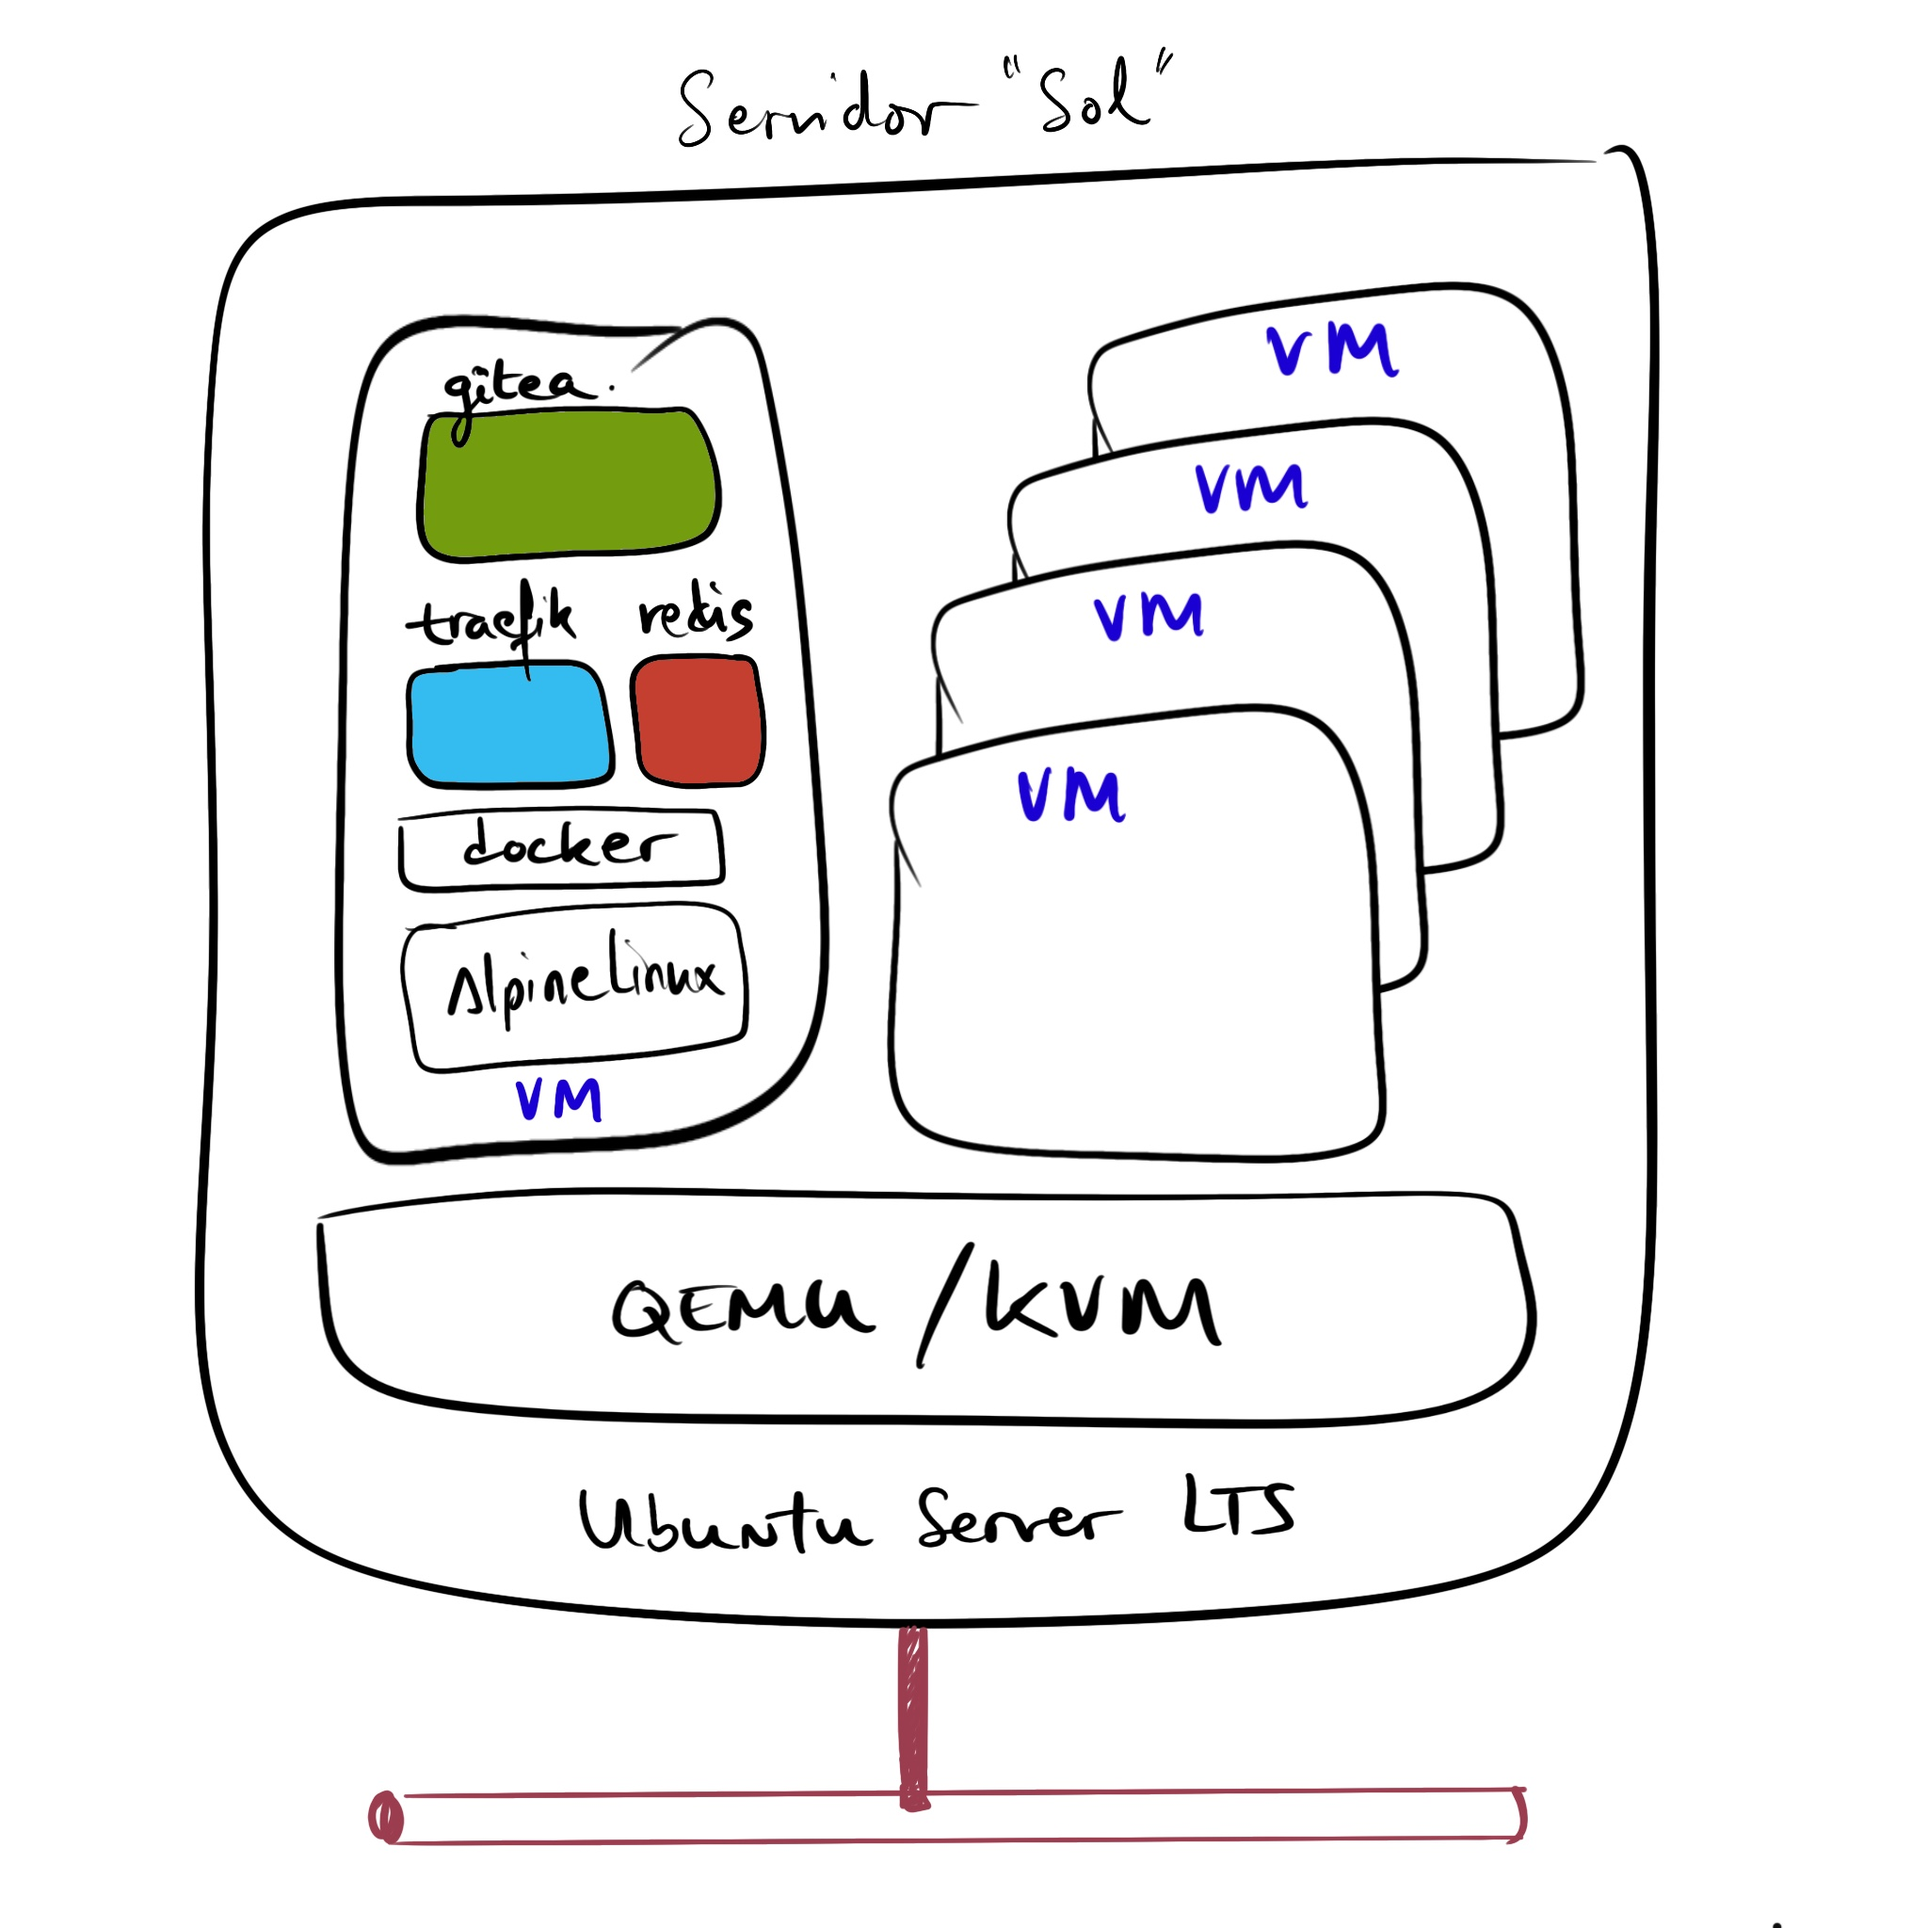
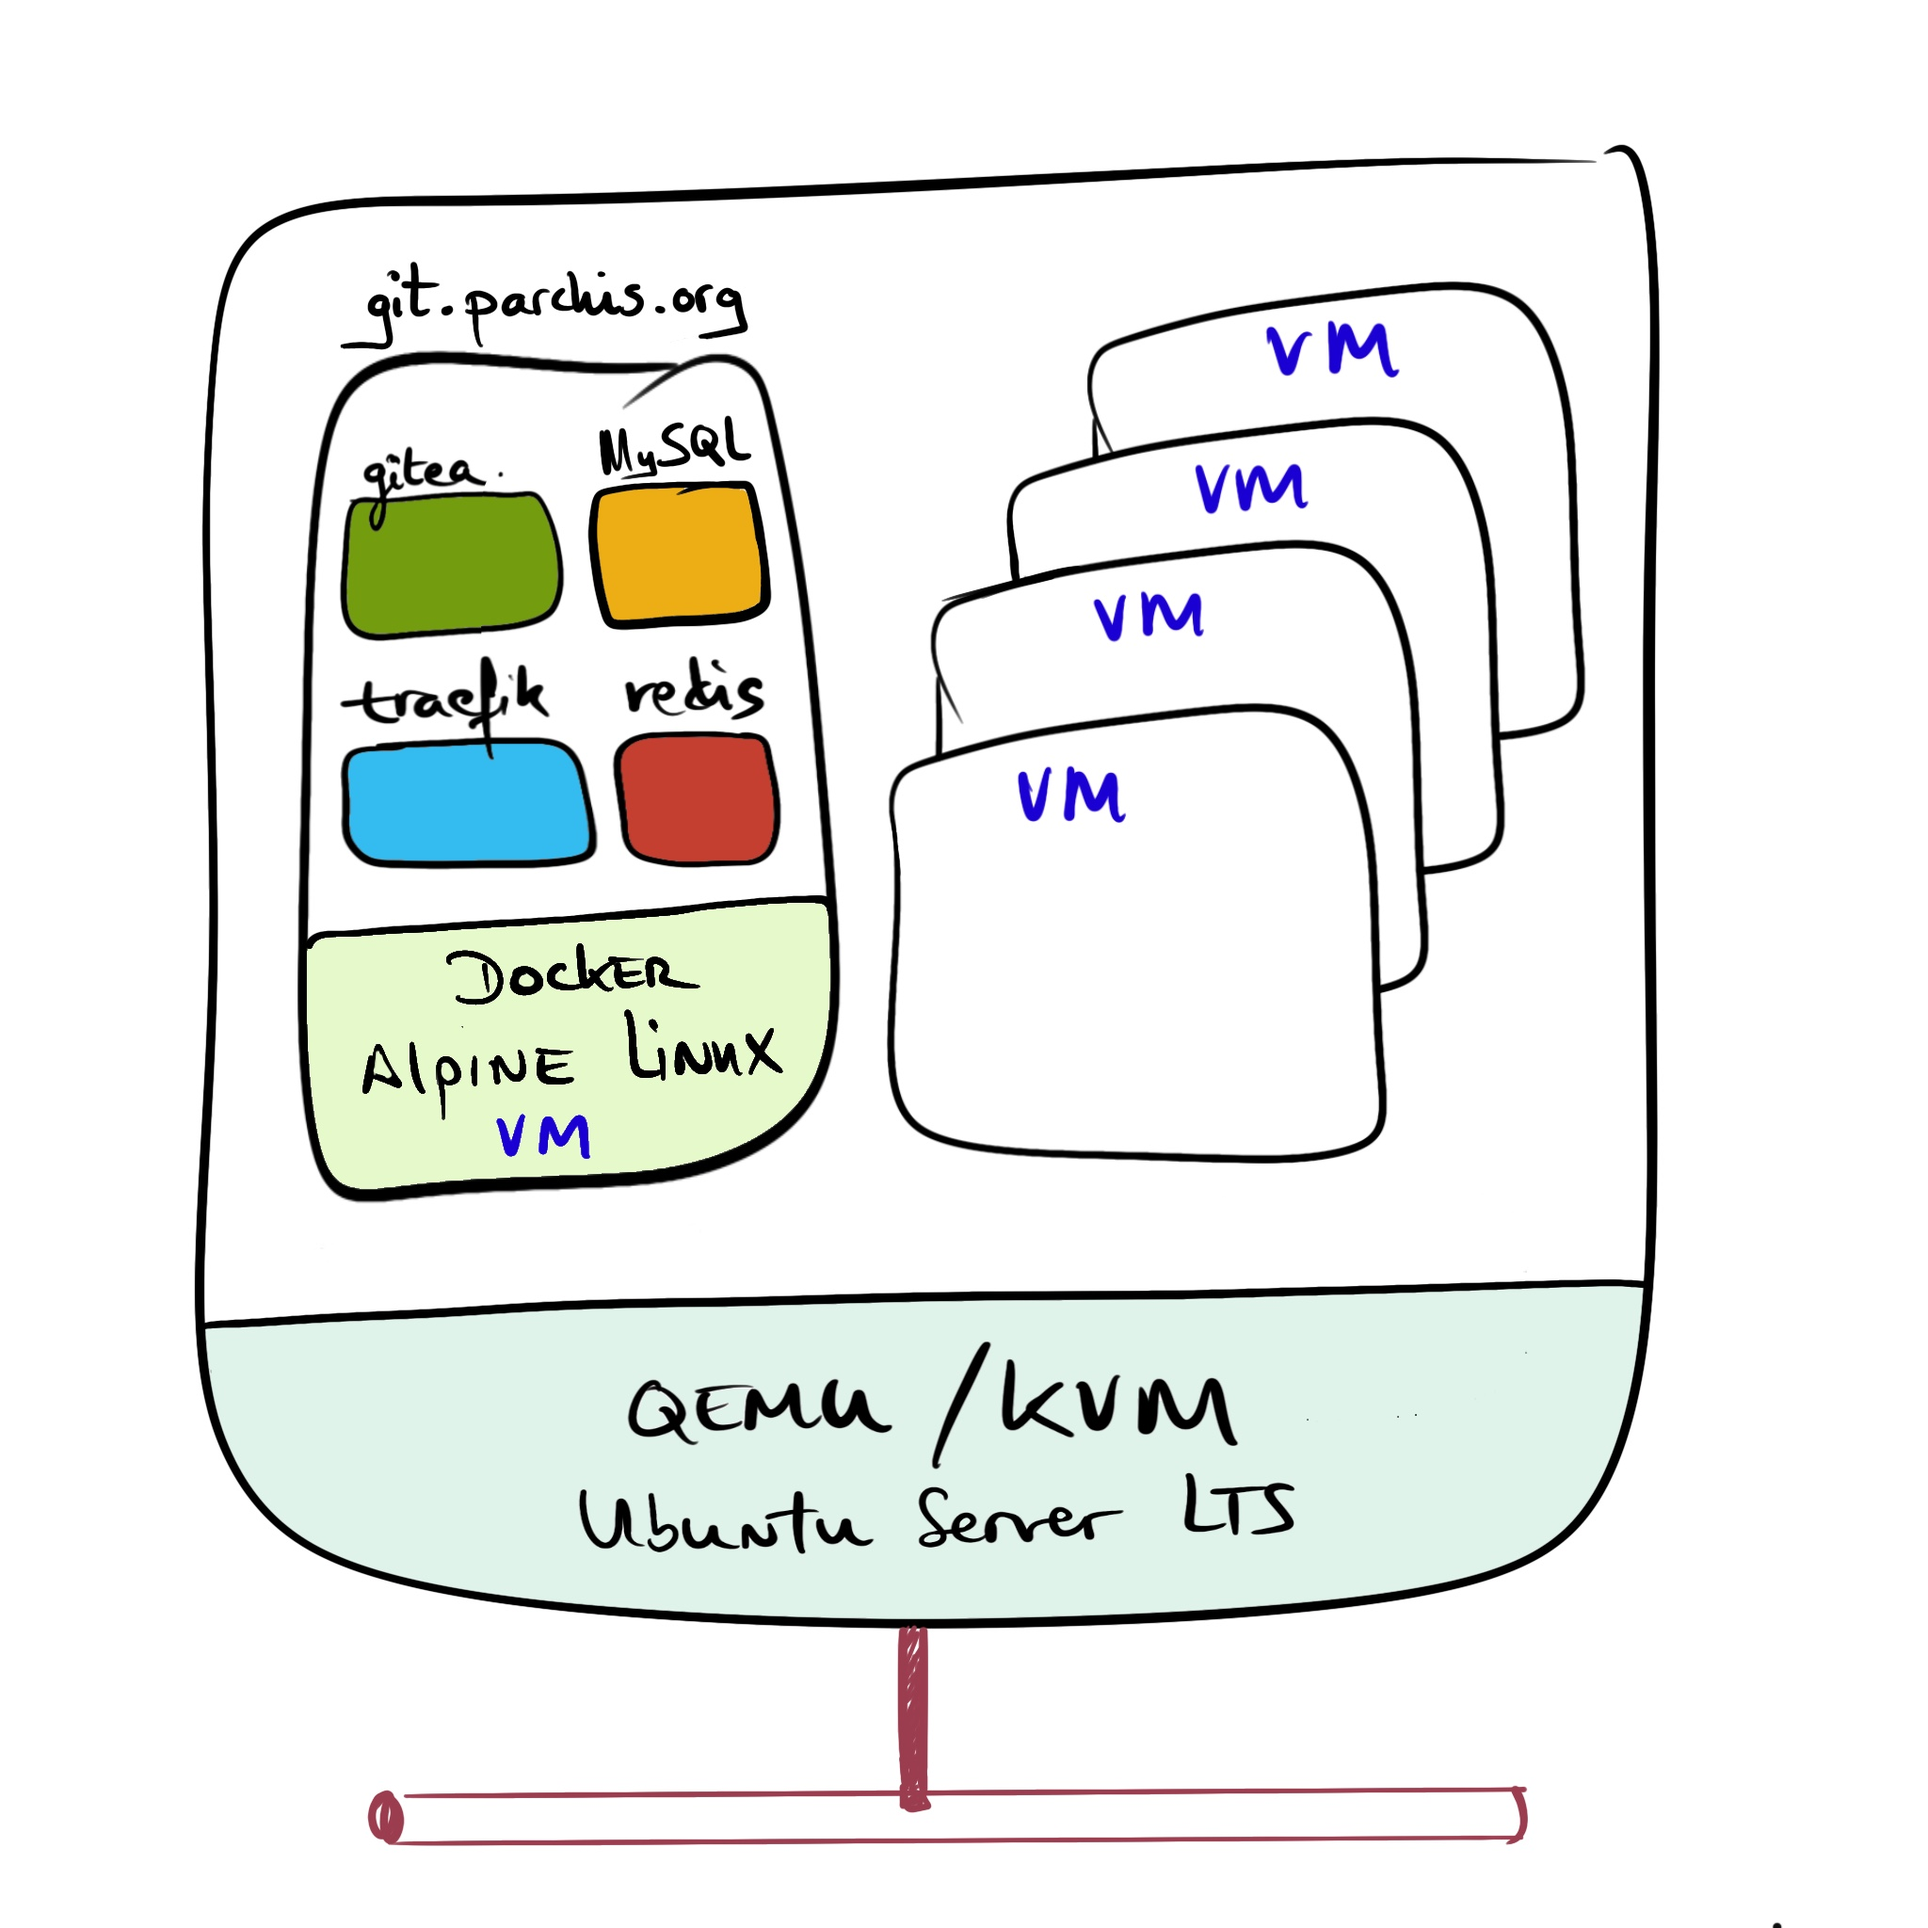
Correcciones a los gráficos y menores en gitea-docker

diff --git a/docs/_posts/2022-04-03-gitea-docker.md b/docs/_posts/2022-04-03-gitea-docker.md
@@ -8,12 +8,12 @@ excerpt_separator: <!--more-->
 
 ![Logo gitea traefik docker](/assets/img/posts/logo-gitea-docker.svg){: width="150px" style="float:left; padding-right:25px" } 
 
-En este apunte describo la instalación de [Gitea](http://gitea.io) (servidor GIT) y [Traefik](https://doc.traefik.io/traefik/) (terminar certificados SSL de LetsEncrypt). Ambos corriendo como contenedores Docker en una máquina virtual basada en Alpine Linux. En el apunte anterior expliqué qué es Gitea y cómo [montarlo sobre una máquina virtual]({% post_url 2022-03-26-gitea-vm %}).
+En este apunte describo la instalación de [Gitea](http://gitea.io) (servidor GIT) y [Traefik](https://doc.traefik.io/traefik/) (terminar certificados SSL de LetsEncrypt), junto con [Redis](https://redis.io) (cache) y [MySQL](https://www.mysql.com) (DB). Todos como contenedores Docker en una máquina virtual basada en Alpine Linux. En el apunte anterior expliqué qué es Gitea y cómo [montarlo sobre una máquina virtual]({% post_url 2022-03-26-gitea-vm %}).
 
 <br clear="left"/>
 <!--more-->
 
-En esta ocasión he añadido Traefik y ejecuto ambos como **contenedores en un Host Docker** que a su vez corre en máquina virtual Alpine Linux sobre mi Hypervisor QEMU/KVM. Este apunte refleja mi instalación en producción en mi red casera. Doy crédito al autor de este fantástico artículo: [setup a self-hosted git service with gitea](https://dev.to/ruanbekker/setup-a-self-hosted-git-service-with-gitea-11ce).
+En esta ocasión he añadido Traefik y Redis a la foto y todo ejecutándose como **contenedores en un Host Docker** sobre un Linux ligero (Alpine Linux), a su vez sobre mi Hypervisor QEMU/KVM. Este apunte refleja mi instalación en producción en mi red casera. Crédito va para el autor de esta buena guía, [setup a self-hosted git service with gitea](https://dev.to/ruanbekker/setup-a-self-hosted-git-service-with-gitea-11ce).
 
 {% include showImagen.html 
       src="/assets/img/posts/2022-03-27-gitea-docker-1.jpg" 
@@ -33,7 +33,7 @@ Antes de entrar en harina ahí va la configuración de networking de mi instalac
       width="600px"
       %}
 
-Este tipo de instalación permitirá conectar con el servidor en mi red privada (LAN) pero también desde Internet (obligatorio para recibir el certificado SSL de Letsencrypt). Normalmente abro los puertos de internet solo bajo demanda, para renovar el certificado o usar el servicio desde internet, de esta forma:
+Este tipo de instalación permitirá conectar con el servidor en mi red privada (LAN) pero también desde Internet (obligatorio para recibir el certificado SSL de Letsencrypt). Aunque casi siempre lo uso en local, así es como abro los puertos de internet bajo demanda, para renovar el certificado o usar el servicio desde internet puntualmente:
 
 ```console
 export GITIP=192.168.1.200
@@ -41,12 +41,12 @@ iptables -t nat -I PREROUTING -i ppp0 -p tcp -m multiport --dports 22,80,443 -j 
 iptables -I FORWARD -p tcp -m multiport --dports 22,80,443 -d ${GITIP} -j ACCEPT
 ```
 
-En mi proveedor DNS tengo activo el nombre `git.parchis.org` apuntando a mi dirección ip pública (dinámica) y en el Servidor DNS local en mi instalación casera tengo lo siguiente: 
+En mi proveedor DNS tengo `git.parchis.org` apuntando a mi dirección ip pública (dinámica) y en el Servidor DNS local en mi instalación casera está así: 
 
-- Traefik: `traefik.parchis.org --> 192.168.1.200`
-- Gitea: `git.parchis.org       --> 192.168.1.200`
+- `traefik.parchis.org --> 192.168.1.200`
+- `git.parchis.org       --> 192.168.1.200`
 
-He configurado el Servicio `openssh` del Alpine Linux para que escuche por otro puerto (22222), de modo que dejo libre el puerto `22` para el contenedor de `gitea`. El acceso a la web se realizara vía `HTTPS` por el puerto `443` y el trabajo con GIT *sobre ssh* se hará a través del puerto `22`.
+He configurado el Servicio `openssh` del Alpine Linux para que escuche por otro puerto (22222), de modo que dejo libre el puerto `22` para git sobre SSH en el contenedor de `gitea`, y el acceso a la web de Gitea se realizara vía `HTTPS` por el puerto `443`.
 
 <br/>
 
@@ -72,13 +72,15 @@ git:~$ mkdir gitea
 
 ### Contenedor Traefik
 
+Primero voy a crear solo la parte de Traefik, para asegurarme que funciona correctamente.
+
 -  Creo el fichero donde se guardará el certificado de `letsencrypt`.
 ```console
 git:~/gitea$ mkdir data_traefik
 git:~/gitea$ touch data_traefik/acme.json
 git:~/gitea$ chmod 600 data_traefik/acme.json
 ```
-- Creo `docker-compose.yml`, de momento solo añado el primer serivicio `gitea-traefik`. Cambia tu `HOST` y `TUCORREO@gmail.com` por el adecuado.
+- Creo `docker-compose.yml`, de momento solo pongo el primer serivicio `gitea-traefik`. Cambia tu `HOST` y `TUCORREO@gmail.com` por el adecuado.
 ```yml
 version: '3.9'
 services:
@@ -145,7 +147,7 @@ time="2022-03-27T08:33:57Z" level=info msg="Testing certificate renew..." provid
 
 ### Contenedores Gitea, Redis y MySQL
 
-- Preparo el directorio donde dejaré los datos
+- Preparo los directorios donde dejaré los datos.
 ```console
 git:~/gitea$ mkdir -p data/gitea      # Directorio para los datos de Gitea
 git:~/gitea$ mkdir -p mysql           # Directorio para los datos de MySQL
@@ -308,11 +310,11 @@ networks:
 
 #### Arrancar todos los servicios
 
-- Paro Traefik 
+- Paro Traefik (opcional)
 ```console
 git:~/gitea$ docker-compose stop
 ``` 
-- Arranco los tres servicios
+- Arranco todos los microservicios (contenedores)
 ```console
 git:~/gitea$ docker-compose up -d
 Creating network "public" with the default driver
@@ -336,9 +338,9 @@ git:~/gitea$ docker-compose logs
 
 <br/>
 
-### Instalación y configuración de Gitea
+### Parametrizar Gitea
 
-Se supone que ya está, así que me dirijo a mi `ROOT_URL`, `https://git.parchis.org` y entro en la configuración inicial (que aparece ya pre rellena)
+Me dirijo a mi `ROOT_URL`, `https://git.parchis.org` y entro en la configuración inicial.
 
 {% include showImagen.html 
       src="/assets/img/posts/2022-03-27-gitea-docker-3.png" 
@@ -346,7 +348,7 @@ Se supone que ya está, así que me dirijo a mi `ROOT_URL`, `https://git.parchis
       width="600px"
       %}
 
-- Preparo la parte del correo. Uso mi cuenta de GMail con contraseña de aplicación. 
+- Sección de correo. Uso mi cuenta de GMail con contraseña de aplicación. 
 
 {% include showImagen.html 
       src="/assets/img/posts/2022-03-27-gitea-docker-4.png" 
@@ -354,7 +356,7 @@ Se supone que ya está, así que me dirijo a mi `ROOT_URL`, `https://git.parchis
       width="600px"
       %}
 
-- Configuro al usuario administrador
+- Configuro el usuario administrador
 
 {% include showImagen.html 
       src="/assets/img/posts/2022-03-27-gitea-docker-5.png" 
@@ -362,7 +364,7 @@ Se supone que ya está, así que me dirijo a mi `ROOT_URL`, `https://git.parchis
       width="600px"
       %}
 
-- Hacemos click in "Instalar Gitea". Cuando termina vuelvo a escribir la `ROOT_URL` y deberías ver lo siguiente al estar ya autenticado.
+- Hacemos click en "Instalar Gitea". Cuando termina vuelvo a escribir la `ROOT_URL` y deberías ver lo siguiente al estar ya autenticado.
 
 {% include showImagen.html 
       src="/assets/img/posts/2022-03-27-gitea-docker-6.png" 
@@ -370,7 +372,7 @@ Se supone que ya está, así que me dirijo a mi `ROOT_URL`, `https://git.parchis
       width="600px"
       %}
 
-- Si intento conectar desde INTERNET con con `http://git.parchis.org` me redirige a `https://git.parchis.org` y veré lo siguiente
+- Si intento conectar desde INTERNET con `http://git.parchis.org` me redirige a `https://git.parchis.org` y veré lo siguiente
 
 {% include showImagen.html 
       src="/assets/img/posts/2022-03-27-gitea-docker-7.png" 
@@ -379,7 +381,7 @@ Se supone que ya está, así que me dirijo a mi `ROOT_URL`, `https://git.parchis
       %}
 
 
-- Si más adelante quieres retocar la configuración puedes hacerlo modificando `/home/luis/gitea/data/gitea/gitea/conf/app.ini`. Recuerda que antes de modificarlo es conveniente parar el contenedor. En mi caso para que funcionase bien el correo tuve que retocarlo
+- Si más adelante quieres retocar la configuración puedes hacerlo modificando `/home/luis/gitea/data/gitea/gitea/conf/app.ini`. Recuerda que antes es conveniente parar el contenedor.
 ```console
 git:~/gitea$ docker-compose stop gitea
 git:~/gitea$ nano data/gitea/gitea/conf/app.ini
@@ -438,7 +440,7 @@ Vuelvo a la página web y creo el repositorio `hola-mundo`
       width="600px"
       %}
 
-Antes de poder trabajar con él configuro mi cliente (`$HOME/.ssh/config`) y añado lo siguiente: 
+Antes de poder trabajar con él, configuro mi cliente (`$HOME/.ssh/config`) y añado lo siguiente: 
 
 ```config
 # Gitea
